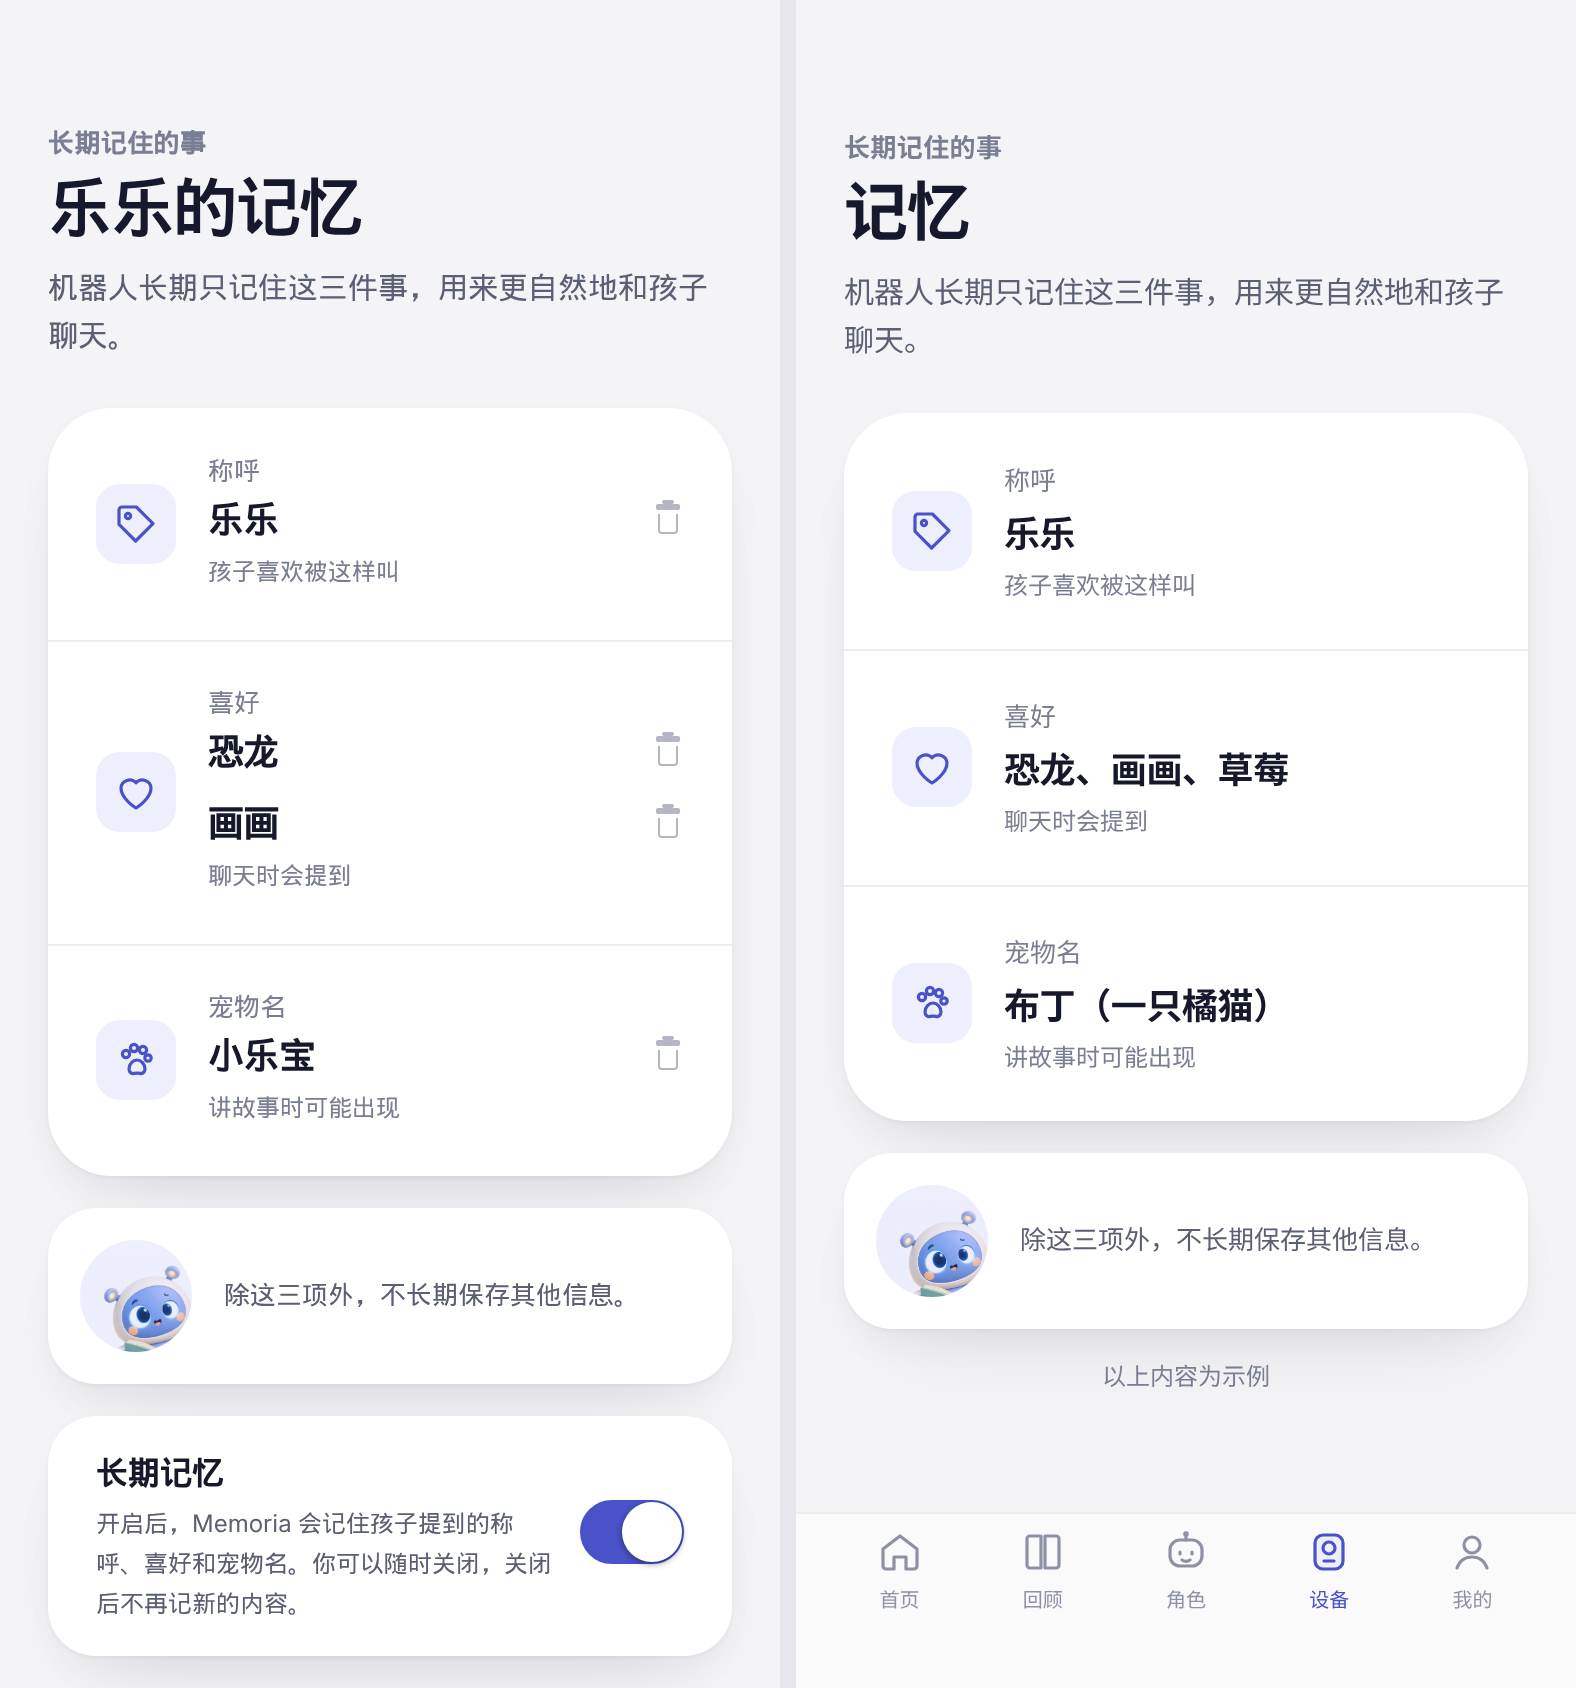
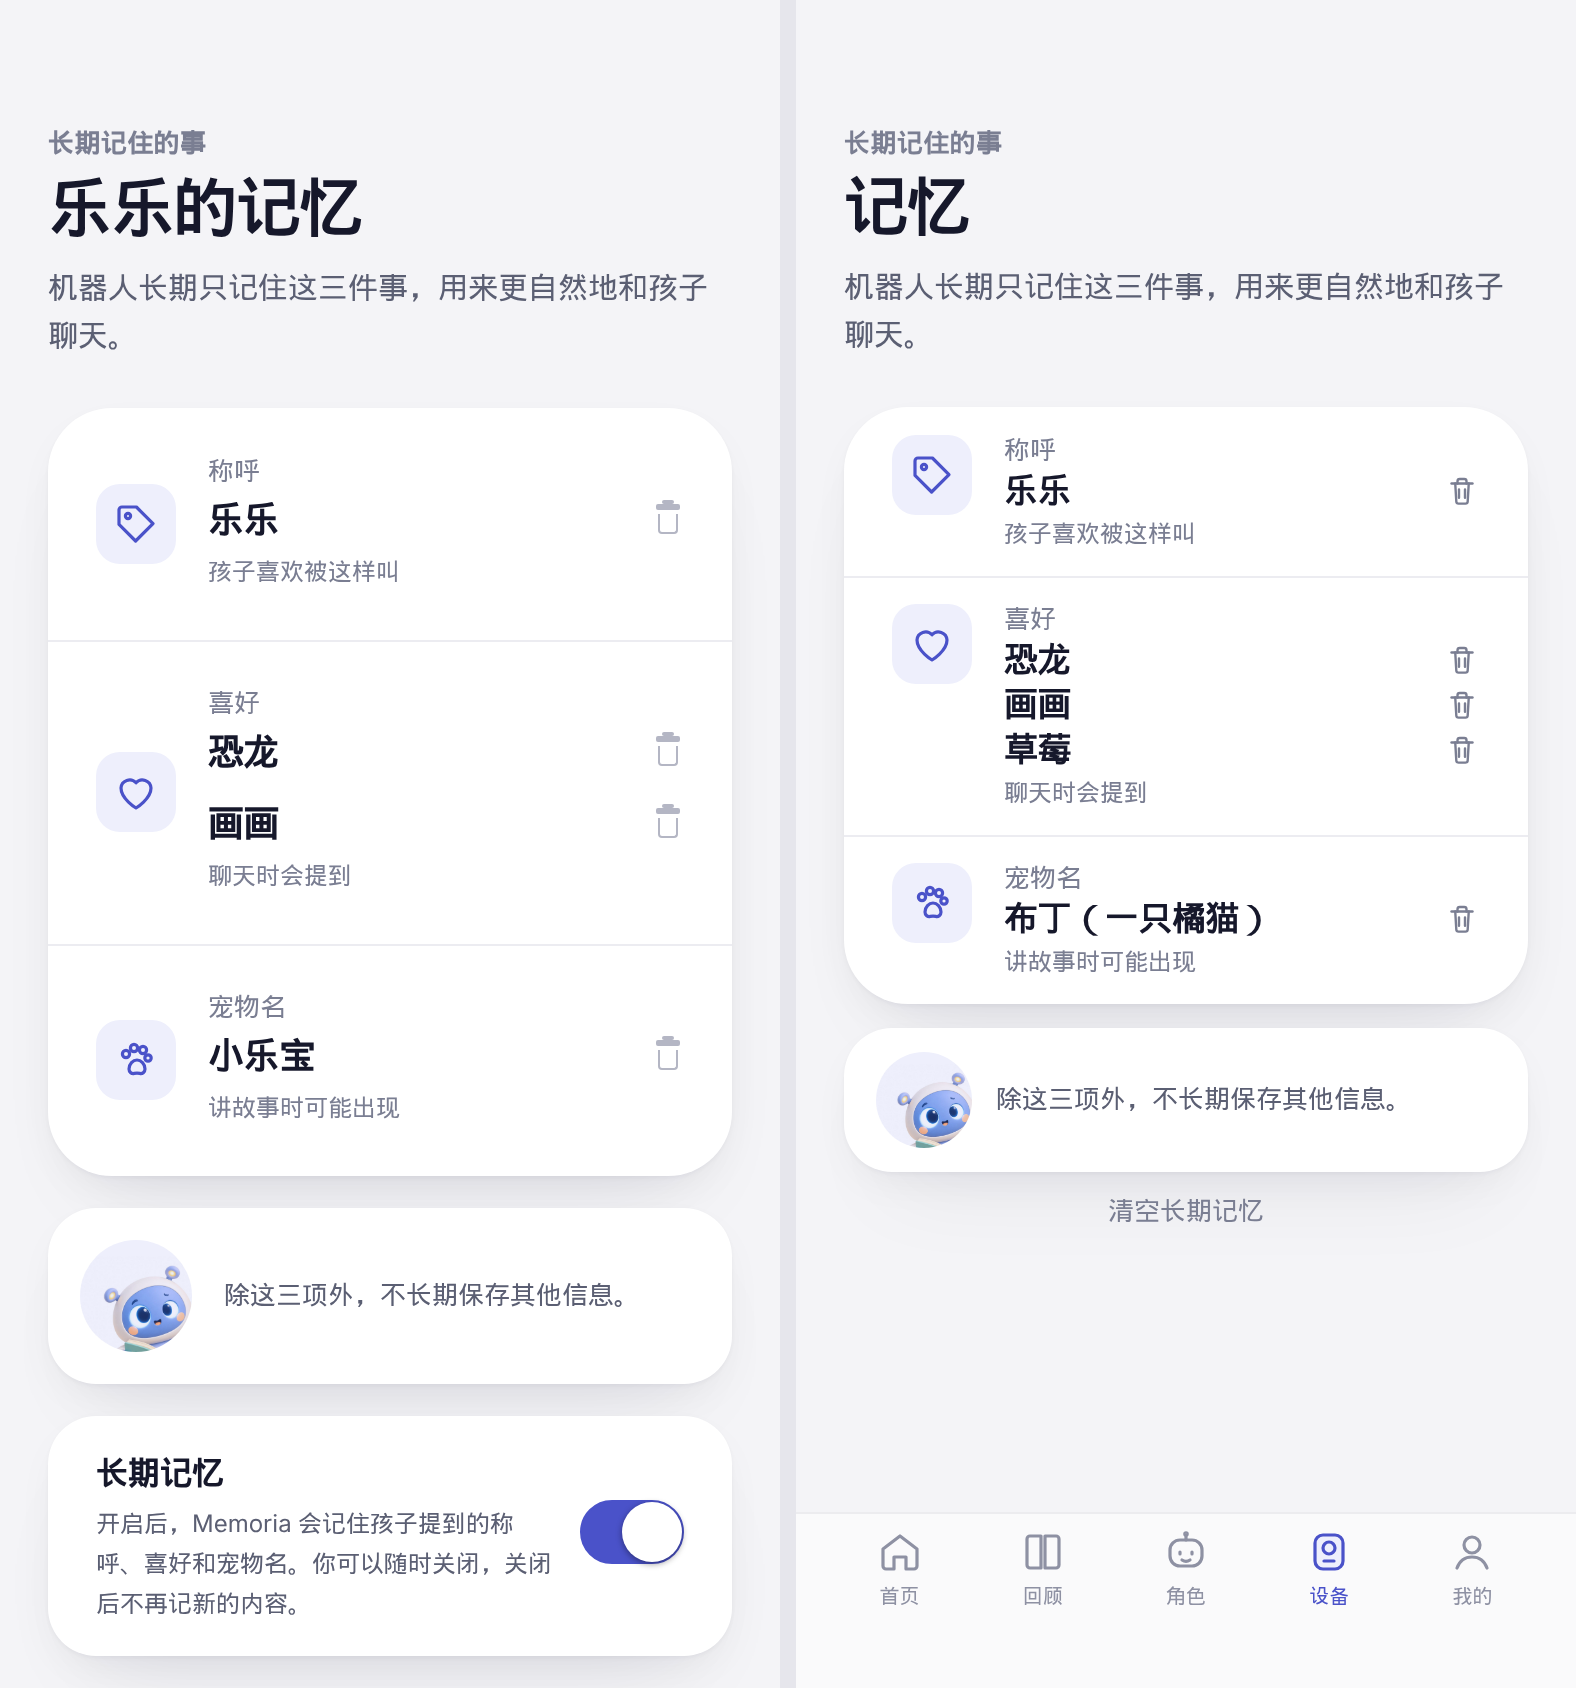
fix(miniprogram): show 15 minutes for an old session cap
A stored length outside 10 to 30 minutes is not a parent choice.
The device page shows 15 and leaves the signed seconds alone.
Design 09 adds a trash icon on each fact and the two confirm sheets.

diff --git a/docs/design/app-v4/app.html b/docs/design/app-v4/app.html
@@ -34,7 +34,9 @@ svg{fill:none;stroke:currentColor;stroke-width:1.6;stroke-linecap:round;stroke-l
 .sl em{position:absolute;top:-12px;width:32px;height:32px;border-radius:50%;background:#fff;box-shadow:0 2px 8px rgba(22,24,43,.18),0 0 0 .5px rgba(22,24,43,.08)}
 .rg{display:flex;justify-content:space-between;font-size:12px;color:var(--ink3)}
 </style><body><div id="root"></div><script>
-const P=+new URLSearchParams(location.search).get('p')||0;
+const Q=new URLSearchParams(location.search);
+const P=+Q.get('p')||0;
+const SHEET=Q.get('sheet')||'';
 const I={
 home:'<svg viewBox="0 0 24 24"><path d="M3.5 10.5 12 4l8.5 6.5V19a1.5 1.5 0 0 1-1.5 1.5h-4v-6h-6v6H5A1.5 1.5 0 0 1 3.5 19z"/></svg>',
 book:'<svg viewBox="0 0 24 24"><path d="M4 5.5A1.5 1.5 0 0 1 5.5 4H11v16H5.5A1.5 1.5 0 0 1 4 18.5z"/><path d="M20 5.5A1.5 1.5 0 0 0 18.5 4H13v16h5.5a1.5 1.5 0 0 0 1.5-1.5z"/></svg>',
@@ -58,6 +60,7 @@ info:'<svg viewBox="0 0 24 24"><circle cx="12" cy="12" r="8.5"/><path d="M12 11v
 play:'<svg viewBox="0 0 24 24" style="width:16px;height:16px;fill:currentColor;stroke:none"><path d="M8 5.5v13l10.5-6.5z"/></svg>',
 moon:'<svg viewBox="0 0 24 24"><path d="M19 14.5A7.5 7.5 0 0 1 9.5 5a7.5 7.5 0 1 0 9.5 9.5z"/></svg>',
 plus:'<svg viewBox="0 0 24 24" style="width:18px;height:18px"><path d="M12 5v14M5 12h14"/></svg>',
+trash:'<svg viewBox="0 0 24 24" style="width:18px;height:18px"><path d="M5 7h14"/><path d="M9 7V5.5A1.5 1.5 0 0 1 10.5 4h3A1.5 1.5 0 0 1 15 5.5V7"/><path d="M7.5 7l.7 12a1.5 1.5 0 0 0 1.5 1.4h4.6a1.5 1.5 0 0 0 1.5-1.4l.7-12"/><path d="M10 11v5.5M14 11v5.5"/></svg>',
 wechat:'<svg viewBox="0 0 24 24" style="width:20px;height:20px"><path d="M9.5 5C5.9 5 3 7.4 3 10.4c0 1.7.9 3.2 2.4 4.2L5 16.8l2.4-1.3c.7.2 1.4.3 2.1.3M21 14.2c0-2.6-2.5-4.7-5.6-4.7s-5.6 2.1-5.6 4.7 2.5 4.7 5.6 4.7c.6 0 1.2-.1 1.8-.3l2 1.1-.4-1.9c1.3-.9 2.2-2.2 2.2-3.6z"/></svg>'};
 
 const tab=a=>'<div class="tab">'+[['首页','home'],['回顾','book'],['角色','face'],['设备','dev'],['我的','user']].map(([t,i])=>`<div class="${t==a?'a':''}">${I[i]}${t}</div>`).join('')+'</div>';
@@ -121,11 +124,15 @@ S.push(`<div class="c"><div class="eyebrow">说话风格</div><h1>角色</h1><di
 <div class="k" style="margin-top:16px;height:48px;border-radius:16px;display:flex;justify-content:center;align-items:center;gap:8px;color:var(--acc);font-weight:600">${I.plus}新建角色</div>
 <div class="note" style="margin-top:8px">角色名称为示例</div></div>${tab('角色')}`);
 /* 9 memory */
-S.push(`<div class="c"><div class="eyebrow">长期记住的事</div><h1>记忆</h1><div class="sub">机器人长期只记住这三件事，用来更自然地和孩子聊天。</div>
+const factLine=t=>`<div style="display:flex;align-items:center;gap:8px;margin-top:2px"><div style="flex:1;font-size:17px;font-weight:700;letter-spacing:-.2px">${t}</div><span style="color:var(--ink3);display:flex">${I.trash}</span></div>`;
+const memoryFields=[['tag','称呼',['乐乐'],'孩子喜欢被这样叫'],['heart','喜好',['恐龙','画画','草莓'],'聊天时会提到'],['paw','宠物名',['布丁（一只橘猫）'],'讲故事时可能出现']];
+const memoryBody=`<div class="c"><div class="eyebrow">长期记住的事</div><h1>记忆</h1><div class="sub">机器人长期只记住这三件事，用来更自然地和孩子聊天。</div>
 <div class="k xl" style="margin-top:24px;padding:0">
-${[['tag','称呼','乐乐','孩子喜欢被这样叫'],['heart','喜好','恐龙、画画、草莓','聊天时会提到'],['paw','宠物名','布丁（一只橘猫）','讲故事时可能出现']].map(r=>`<div class="row" style="padding:24px">${ic(r[0],'var(--accbg)','var(--acc)')}<div style="flex:1"><div style="font-size:13px;color:var(--ink3)">${r[1]}</div><div style="font-size:18px;font-weight:700;letter-spacing:-.2px;margin-top:4px">${r[2]}</div><div style="font-size:12px;color:var(--ink3);margin-top:4px">${r[3]}</div></div></div>`).join('')}</div>
-<div class="k" style="margin-top:16px;padding:16px;display:flex;gap:16px;align-items:center"><div style="width:56px;height:56px;border-radius:50%;background:var(--accbg);overflow:hidden;display:grid;place-items:center;flex:none"><img class="m" src="assets/m_curious.jpg" style="width:72px;margin-top:8px"></div><div style="font-size:13px;color:var(--ink2);line-height:20px">除这三项外，不长期保存其他信息。</div></div>
-<div class="note">以上内容为示例</div></div>${tab('设备')}`);
+${memoryFields.map(r=>`<div class="row" style="align-items:flex-start;padding:14px 24px">${ic(r[0],'var(--accbg)','var(--acc)')}<div style="flex:1"><div style="font-size:13px;color:var(--ink3)">${r[1]}</div>${r[2].map(factLine).join('')}<div style="font-size:12px;color:var(--ink3);margin-top:4px">${r[3]}</div></div></div>`).join('')}</div>
+<div class="k" style="margin-top:12px;padding:12px 16px;display:flex;gap:12px;align-items:center"><div style="width:48px;height:48px;border-radius:50%;background:var(--accbg);overflow:hidden;display:grid;place-items:center;flex:none"><img class="m" src="assets/m_curious.jpg" style="width:64px;margin-top:6px"></div><div style="font-size:13px;color:var(--ink2);line-height:20px">除这三项外，不长期保存其他信息。</div></div>
+<div style="text-align:center;margin-top:12px;font-size:13px;color:var(--ink3)">清空长期记忆</div></div>${tab('设备')}`;
+const memorySheet=(title,quote,confirm)=>`<div style="position:absolute;inset:0;background:rgba(22,24,43,.4);z-index:3"></div><div style="position:absolute;left:0;right:0;bottom:0;z-index:4;background:var(--card);border-radius:24px 24px 0 0;padding:8px 24px 32px;box-shadow:0 1px 2px rgba(22,24,43,.04),0 8px 24px -8px rgba(22,24,43,.08)"><div style="width:36px;height:4px;border-radius:99px;background:var(--line);margin:4px auto 16px"></div><div style="font-size:20px;font-weight:700;letter-spacing:-.3px">${title}</div>${quote?`<div style="margin-top:16px;padding:14px 16px;border-radius:16px;background:var(--bg);font-size:15px;line-height:24px">${quote}</div>`:''}<div style="margin-top:16px;font-size:13px;color:var(--ink2);line-height:20px">删除后，这条记忆会从服务器上删除，无法恢复，不影响其他记忆。</div><div class="btn alt" style="margin-top:24px;color:var(--rust);box-shadow:none;border:1px solid var(--line)">${confirm}</div><div class="btn alt" style="margin-top:12px">再想想</div></div>`;
+S.push(memoryBody+(SHEET==='delete'?memorySheet('删除这条记忆？','恐龙','删除'):SHEET==='clear'?memorySheet('清空长期记忆？','','清空全部'):''));
 /* 10 profile */
 S.push(`<div class="c"><h1>我的</h1><div class="k xl" style="margin-top:24px;padding:24px;display:flex;gap:16px;align-items:center"><div style="width:64px;height:64px;border-radius:50%;background:var(--accbg);color:var(--acc);display:grid;place-items:center;font-size:24px;font-weight:700">乐</div><div><div style="font-size:20px;font-weight:700;letter-spacing:-.3px">乐乐妈妈</div><div class="sub" style="margin-top:4px;font-size:14px">已绑定 1 台设备</div></div></div>
 <div class="k" style="margin-top:16px;padding:16px;display:flex;align-items:center;gap:16px"><div style="width:56px;height:56px;border-radius:16px;background:var(--accbg);overflow:hidden;display:grid;place-items:center"><img class="m" src="assets/m_happy.jpg" style="width:72px;margin-top:8px"></div><div style="flex:1"><b style="font-weight:600">小乐</b><div style="margin-top:8px"><span class="chip on">在线</span></div></div><span style="color:#B4B6C4;display:flex">${I.chev}</span></div>

diff --git a/apps/miniprogram/utils/session-limits.js b/apps/miniprogram/utils/session-limits.js
@@ -1,9 +1,8 @@
-const { SESSION_MINUTES_MAX } = require("./session-length");
+const { SESSION_MINUTES_MAX, SESSION_MINUTES_MIN } = require("./session-length");
 
 const QUIET_HOUR_PATTERN = /^([01]\d|2[0-3]):[0-5]\d$/;
 // 设备按北京时间执行休息时段（agent 的 MEMORIA_TIMEZONE 默认 Asia/Shanghai）。
 const DEVICE_UTC_OFFSET_MINUTES = 8 * 60;
-const MAX_SESSION_MINUTES_CAP = SESSION_MINUTES_MAX;
 const DAILY_CHAT_SECONDS_KEY = "daily_chat_seconds";
 
 function obligationParams(profile, code) {
@@ -38,6 +37,13 @@ function inQuietHours(window, now) {
   return start < end ? current >= start && current < end : current >= start || current < end;
 }
 
+function parentSessionMinutes(maxSeconds) {
+  if (!Number.isInteger(maxSeconds) || maxSeconds <= 0) return null;
+  const minutes = Math.round(maxSeconds / 60);
+  if (minutes < SESSION_MINUTES_MIN || minutes > SESSION_MINUTES_MAX) return null;
+  return minutes;
+}
+
 function sessionLimitsFromProfile(profile, now = new Date()) {
   if (!profile || profile.valid !== true || profile.subject_category !== "minor") return null;
   const quiet = obligationParams(profile, "QUIET_HOURS")?.quiet_hours;
@@ -52,11 +58,8 @@ function sessionLimitsFromProfile(profile, now = new Date()) {
   const hasMax = Number.isInteger(maxSeconds) && maxSeconds > 0;
   if (!hasQuiet && !hasMax && dailyChatMinutes === null) return null;
   const crossesMidnight = hasQuiet && minutesOf(quiet[0]) > minutesOf(quiet[1]);
-  const rawMinutes = hasMax ? Math.max(1, Math.round(maxSeconds / 60)) : null;
-  const maxSessionMinutes =
-    rawMinutes == null ? null : Math.min(MAX_SESSION_MINUTES_CAP, rawMinutes);
+  const maxSessionMinutes = parentSessionMinutes(hasMax ? maxSeconds : null);
   return {
-    // Clamped display/edit value; stored profile seconds are not rewritten.
     maxSessionMinutes,
     quietStart: hasQuiet ? quiet[0] : "",
     quietEnd: hasQuiet ? quiet[1] : "",
@@ -68,7 +71,6 @@ function sessionLimitsFromProfile(profile, now = new Date()) {
 }
 
 module.exports = {
-  MAX_SESSION_MINUTES_CAP,
   sessionLimitsFromProfile,
   inQuietHours,
 };

diff --git a/apps/miniprogram/scripts/v4-parity/scenarios.js b/apps/miniprogram/scripts/v4-parity/scenarios.js
@@ -17,6 +17,23 @@ const PARITY = [
     actions: [["summarizeSelectedDay"]],
   },
   { slug: "06-usage", design: "06-usage.png", page: "pages/device/index", harness: fx.authed() },
+  {
+    slug: "06-usage-legacy",
+    design: "06-usage.png",
+    page: "pages/device/index",
+    harness: fx.authed({
+      getRuntimeProfile: async () => ({
+        ...fx.RUNTIME_PROFILE,
+        obligations: [
+          { code: "QUIET_HOURS", params: { quiet_hours: ["21:00", "07:00"] } },
+          {
+            code: "MAX_SESSION_SECONDS",
+            params: { max_session_seconds: 2700, extras: [["daily_chat_seconds", "1800"]] },
+          },
+        ],
+      }),
+    }),
+  },
   { slug: "05-attention", design: "05-attention.png", page: "pages/attention/index", harness: fx.authed(), query: { id: "n1" } },
   { slug: "10-profile", design: "10-profile.png", page: "pages/profile/index", harness: fx.authed() },
   { slug: "08-roles", design: "08-roles.png", page: "pages/companion/index", harness: fx.authed() },
@@ -26,6 +43,22 @@ const PARITY = [
     page: "pages/child-memory/index",
     harness: fx.authed(fx.archiveApi),
     query: { minorId: "p_child", name: "乐乐" },
+  },
+  {
+    slug: "09-memory-delete",
+    design: "09-memory-delete.png",
+    page: "pages/child-memory/index",
+    harness: fx.authed(fx.archiveApi),
+    query: { minorId: "p_child", name: "乐乐" },
+    actions: [["askDeleteArchive", { currentTarget: { dataset: { recordId: "a2" } } }]],
+  },
+  {
+    slug: "09-memory-clear",
+    design: "09-memory-clear.png",
+    page: "pages/child-memory/index",
+    harness: fx.authed(fx.archiveApi),
+    query: { minorId: "p_child", name: "乐乐" },
+    actions: [["askClearArchive"]],
   },
 ];
 

diff --git a/apps/miniprogram/tests/session-limits.test.js b/apps/miniprogram/tests/session-limits.test.js
@@ -122,7 +122,7 @@ test("stored seconds outside 10 to 30 minutes are not a parent choice", () => {
   }
 });
 
-test("stored per-session limits above 30 minutes clamp to 30 on read", () => {
+test("stored per-session limits above 30 minutes stay off the slider instead of clamping to 30", () => {
   for (const minutes of [45, 60, 90, 120]) {
     const limits = sessionLimitsFromProfile(
       profile({
@@ -140,7 +140,7 @@ test("stored per-session limits above 30 minutes clamp to 30 on read", () => {
       }),
       DAY,
     );
-    assert.equal(limits.maxSessionMinutes, 30);
-    assert.equal(limits.maxSessionLabel, "30 分钟");
+    assert.equal(limits.maxSessionMinutes, null);
+    assert.equal(limits.maxSessionLabel, "");
   }
 });
